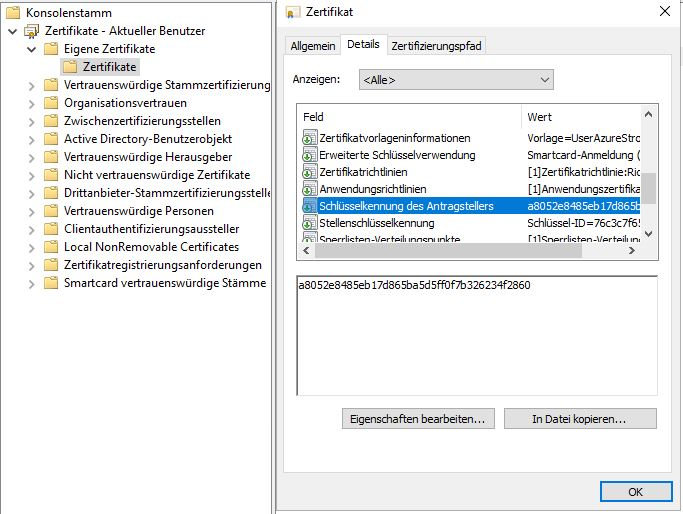
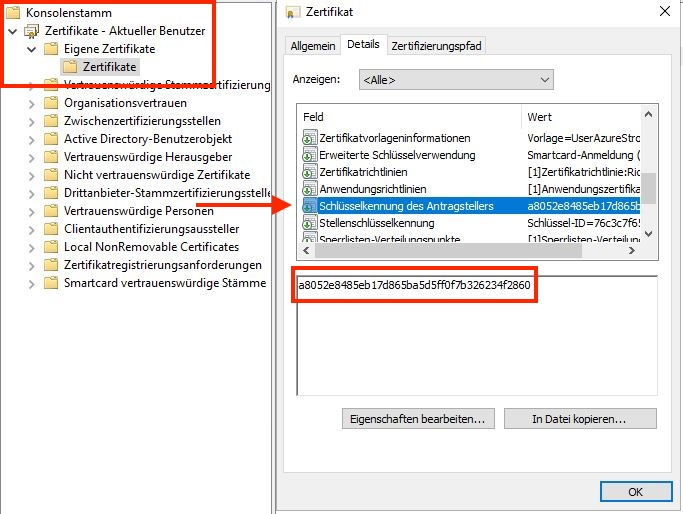
new files

Changed region(s): [[0.0, 0.0, 0.3382, 0.1868], [0.3997, 0.4981, 0.7994, 0.5914], [0.2767, 0.3735, 0.4305, 0.4358]]

diff --git a/Entra_certificate_binding/Entra_ID_certificate_binding.md b/Entra_certificate_binding/Entra_ID_certificate_binding.md
@@ -14,44 +14,34 @@ Microsoft Entra ID, formerly known as Azure Active Directory, is a cloud identit
 
 ### Let's examine achieve higher security with certificate bindings.
 
-**Object Identifiers (OID)**  
+**Object Identifiers (OID):**  
 
 First we look at the certificate template on the certificate server (sorry some print screens are in German). Here we see the details of the Object Identifiers (OID).
 
-<img src="/Entra_ID_Certificate_binding/Images/OID.png" alt="OID">
+<img src="/Entra_ID_Certificate_binding/Images/OID.JPG" alt="OID">
 
-**In the Fiddler tool we copy the access token:**  
+**Add a new rule:**  
 
-<img src="/Entra_ID_CAE/Images/cae_2.png" alt="Copy access token">
+Configure an additional rule in the Entra ID Admin Center and use the same Object Identifiers (OID) value here as in the certificate template.
 
-**Now we can decode the access token on the web page https://jwt.ms/:**  
+<img src="/Entra_ID_Certificate_binding/Images/OID_Entra.JPG" alt="Rule">
 
-<img src="/Entra_ID_CAE/Images/cae_3.png" alt="Decode access token">
+**Subject Key Identifier (SKID):**  
 
-**We can see that the access token is valid for approximately 24 hour:**  
+The certificate was issued on the user's system. We obtain the subject key identifier (SKID) from this certificate. We need this value in the Entra ID Admin Center to assign it to a person. The same person for whom the certificate was issued on the system (in my case it is Tina Fluenza).
 
-<img src="/Entra_ID_CAE/Images/cae_4.png" alt="Access token valid for 24 hours">
+<img src="/Entra_ID_Certificate_binding/Images/SKI_local_user.JPG" alt="SKID">
 
-**With the fiddler tool we can see that the microsoft graph is continous access evaluation aware:**  
+**Authorization info:**  
 
-<img src="/Entra_ID_CAE/Images/cae_5.png" alt="Microsoft Graph is CAE aware">
+In the Entra ID Admin Center, we now set the value of the Subject Key Identifier (SKID) for the user in the properties.
 
-**Now lets generate an event that will revoke the access token:**
-
-<img src="/Entra_ID_CAE/Images/cae_6.png" alt="Generate event">
-
-**Back in the PowerShell ISE we can see that the access token is no longer valid (Request for re-authentication):**  
-
-<img src="/Entra_ID_CAE/Images/cae_7.png" alt="Access token is no longer valid">
-
-**In the Fiddler tool we can see that the access token is no longer valid:**  
-
-<img src="/Entra_ID_CAE/Images/cae_8.png" alt="Access token is no longer valid">
+<img src="/Entra_ID_Certificate_binding/Images/SKI_Entra_ID.JPG" alt="Authorization info">
 
 **The exact info from Fiddler:**  
 
 <img src="/Entra_ID_CAE/Images/cae_9.png" alt="Infos from Fiddler">
 
 ---
-## *HAPPY EVALUATING!*
+## *HAPPY BINDING!*
 ---
